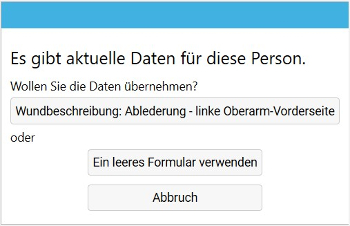
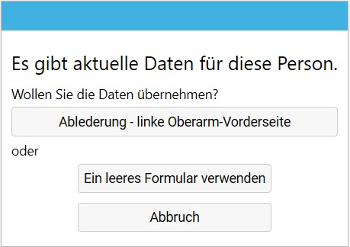
1.0.30

diff --git a/wunddoku/index.html b/wunddoku/index.html
@@ -329,41 +329,58 @@
 
 			
 
-<h2 id="bericht-mit-formular-zur-wundbeschreibung">Bericht mit Formular zur Wundbeschreibung</h2>
+<h2 id="wundbeschreibung-erstellen">Wundbeschreibung erstellen</h2>
 
-<ol>
-<li>Einen neuen <a href="https://transdok.github.io/durchfuehrung/#pflegeberichte">Pflegebericht</a> erstellen.</li>
-<li>Auf die Schaltfläche <code>Formular hinzufügen</code> und dann <code>Wundbeschreibung</code> klicken.</li>
-</ol>
+<p>Der einfachste Weg für das Beschreiben einer Wunde mit einem Formular (und mit Foto), ist die Erstellung eines <a href="https://transdok.github.io/durchfuehrung/#pflegeberichte">Pflegeberichts</a>. Dazu im Programmbereich <code>Pflege</code> beim Menüpunkt <code>Aufträge</code> die betreffende Person wählen und die Schaltfläche <code>Bericht schreiben</code> klicken. Im sich öffnenden Dialogfenster, kann unten die Schaltfläche <code>Formular hinzufügen</code> und dann <code>Wundbeschreibungen</code> gewählt werden.</p>
 
-<p><img src="https://transdok.github.io/images/bericht_wunde.gif" alt="Bericht Wundbeschreibung Screenshot" /></p>
+<p>Sehen Sie in <a href="https://player.vimeo.com/video/399496914">dieser Videoanleitung</a> wie das Formular ausgefüllt, sowie ein Bild eingelesen und vermessen wird.</p>
 
-<div class="admonition note">
-<p class="admonition-title">Pflegediagnosen-Zuordnung</p>
-<p>Wir empfehlen vor dem Erstellen der ersten Beschreibung für eine Wunde das Anlegen einer Pflegediagnose. Diese kann im Formular-Feld <code>Pflegedianose</code> zugeordnet werden. Oder das Formular wird zusammen mit der Pflegediagnose ausgefüllt (siehe <a href="https://transdok.github.io/wunddoku/#pflegediagnose-mit-wundbeschreibung">Pflegediagnose mit Wundbeschreibung</a>).</p>
-</div>
+<h2 id="wundbeschreibung-aktualisieren">Wundbeschreibung aktualisieren</h2>
 
-<p>Wurde für eine Wunde bereits einmal ein Formular ausgefüllt, öffnet sich automatisch ein Fenster zum Übernehmen der letzten Werte. Dazu auf den entsprechenden Titel der Wundbeschreibung klicken:</p>
+<p>Bei Wunden ist es wichtig, dass deren Veränderungen beschrieben werden. Auch hier ist der einfachste Weg die Erstellung eines <a href="https://transdok.github.io/durchfuehrung/#pflegeberichte">Pflegeberichts</a>. Nach dem Klicken von <code>Bericht schreiben</code>, danach <code>Formular hinzufügen</code> und dann <code>Wundbeschreibungen</code> erscheint bei Personen mit einer bereits erfassten Wundbeschreibung folgendes Dialogfenster:</p>
 
 <p><img src="https://transdok.github.io/images/bericht_wunde_aktuelle_daten.jpg" alt="Aktuelle Daten Screenshot" /></p>
 
-<hr />
+<p>Hier ist es wichtig, <strong>nur dann</strong> die Schaltfläche <strong><code>Ein leeres Formular verwenden</code></strong> zu wählen, <strong>wenn es sich um eine neue Wunde handelt</strong>. Für die Übersicht im Verlauf einer Wunde sollte <strong>für alle Aktualisierungen</strong> von Wundbeschreibungen der <strong>Titel der bereits erfassten Wunde</strong> gewählt werden.</p>
 
-<h2 id="pflegediagnose-mit-wundbeschreibung">Pflegediagnose mit Wundbeschreibung</h2>
-
-<p><a href="https://player.vimeo.com/video/372722008">Videoanleitung</a></p>
-
-<ol>
-<li>Einen neuen Pflegeplan mit dem Standard &lsquo;<strong># Gewebeintegrität, beeinträchtigt</strong>&rsquo;, &lsquo;<strong># Wunde</strong>&rsquo; oder &lsquo;<strong># Hautschädigung</strong>&rsquo;  erstellen.</li>
-<li>Auf die Schaltfläche <code>Wundbeschreibung</code> klicken.</li>
-</ol>
-
-<p><img src="https://transdok.github.io/images/planen_wunde.gif" alt="Pflegediagose Wundbeschreibung Screenshot" /></p>
+<p>Im oben dargestellten Beispiel also auf die Schaltfläche <code>Ablederung - linke Oberarm-Vorderseite</code> klicken. Das Formular zeigt eine Kopie der Inhalte wie sie zuletzt bei dieser Wunde erfasst wurden. Das hat den Vorteil, dass nur geändert und nicht das Formular neu ausgefüllt werden muss. Das zuletzt erfasste Bild wird nicht angezeigt, weil bei einer Veränderung der Wunde auch ein neues Bild eingelesen und ggf. vermessen werden sollte.</p>
 
 <div class="admonition note">
-<p class="admonition-title">Regelmäßige Wundbeoabachtungen</p>
-<p>Nach dem Erstellen einer Pflegediagnose mit Wundbeschreibung werden die laufenden Wundbeoabachtungen als Pflegebericht erstellt (siehe <a href="https://transdok.github.io/wunddoku/#bericht-mit-formular-zur-wundbeschreibung">Bericht mit Formular zur Wundbeschreibung</a>).</p>
+<p class="admonition-title">Keine Veränderung</p>
+<p>Das Formular für die Wundbeschreibung sollte nur dann verwendet werden, wenn sich die Wunde und damit der Inhalt verändert hat. Ansonsten ist ein <strong>Durchführungsnachweis</strong> für den <em>Verbandswechsel</em> (oder auch eine <em>Hautkontrolle</em>, &hellip;) als Beleg <strong>ausreichend</strong>. Ggf. könnte beim Durchführungsnachweis die Bemerkung <em>unveränderter Wundzustand</em> angefügt werden.</p>
 </div>
+
+<h2 id="wundbeschreibung-als-pflegeprozess">Wundbeschreibung als Pflegeprozess</h2>
+
+<p>Es gibt Hautveränderungen, allergische Reaktionen, chirurgische Wunden, usw., die medizinisch behandelt werden und keine Aufnahme in den Pflegeprozess erfordern.
+Wenn die Wundbehandlung jedoch im Sinne einer inderdisziplären Zusammenarbeit erfolgt, ist zu emfpehlen, dass pflegeprozessorientiert gearbeitet wird. Das ist insbesondere dann sinnvoll, wenn es pflegerische Einflussfaktoren gibt, die es zu berücksichtigen gilt (Inkontinenz, Ernährungszustand, Druck- und Scherkräfte bei einem Dekubitus, usw.).
+Im Pflegeprozess wird dann eine Pflegediagnose sowie ein Ziel aus Pflegesicht formuliert und es werden Interventionen geplant, die über die Wundbehandlung hinaus gehen können. Z.B. betreffend Ernährung, Lagerung (mit enstsprechenden Hilfsmitteln), Schulung von Betreuungspersonen, usw. Der Pflegeprozess sieht regelmäßige Evaluierungen vor, ein Anpassen der Interventionen und ein definiertes Ende bei vollständiger Abheilung der Wunde.</p>
+
+<p>Sehen Sie in <a href="https://player.vimeo.com/video/403652221">dieser Videoanleitung</a> wie die Wundbeschreibung in den Pflegeprozess eingebunden wird.</p>
+
+<h2 id="ergänzungen">Ergänzungen</h2>
+
+<p>Hier sind einige Dateils zur Arbeit mit Wundbeschreibungen vermerkt:</p>
+
+<h3 id="mehrere-wunden">mehrere Wunden</h3>
+
+<p>Bestimmte Wunden können an mehreren Stellen auftreten (z.B. Ulcus Cruris). Dafür gibt es beim Formular für Wundbeschreibungen oben rechts die Schaltfläche <code>weitere Wunde</code>. Durch Klicken öffnet ein weiteres leer Formular für die Beschreibung der zusätzlichen Wundstelle. Die zusammengehörenden Wunden werden oben im Formular wie Register angezeigt. Durch Anklicken kann die Formularanzeige zwischen den Wundstellen gewechselt werden.</p>
+
+<p><img src="https://transdok.github.io/images/bericht_wunde_mehrere.jpg" alt="mehrere Wunden" /></p>
+
+<h3 id="verbindung-mit-pflegediagnose">Verbindung mit Pflegediagnose</h3>
+
+<p>Bei <a href="#wundbeschreibung-als-pflegeprozess">Wundbeschreibung als Pflegeprozess</a> ist das Vorgehen beschrieben, wie im Rahmen der Erstellung einer Pflegediagnose ein Wundbeschreibungsformular eingefügt wird. Eine solche Verbindung kann auch nachträglich geschaffen werden. Dafür muss zuerst die Pflegediagnose erstellt werden. Dann kann über das <code>Bericht schreiben</code> das Wundbeschreibungsformular verwendet werden (<a href="#wundbeschreibung-erstellen">wie hier beschrieben</a>). Oben im Feld <code>Pflegeplan</code> kann die Zuordnung zur Pflegediagnose erfolgen.</p>
+
+<p><img src="https://transdok.github.io/images/bericht_wunde_pflegediagnose.jpg" alt="mehrere Wunden" /></p>
+
+<p>Eine Pflegediagnose kann nur einem Formular zugeordnet werden. Dieses Formular kann wie oben beschrieben mehrere Wunden zusammenfassen. Sollte es sich um unterschiedliche Wunden handeln, kann die Zuordnung leer bleiben (bei rein medizinischer Behandlung) oder es müssten mehrere Pflegediganosen erstellt werden.</p>
+
+<h3 id="wundbeschreibung-bei-der-pflegediagnose-aktualisieren">Wundbeschreibung bei der Pflegediagnose aktualisieren</h3>
+
+<p>Bei <a href="#wundbeschreibung-aktualisieren">Wundbeschreibung aktualisieren</a> ist das Vorgehen über das <code>Bericht schreiben</code> genannt. Ist das Formular mit einer Pflegediagnose verbunden, kann auch bei <code>Pflegeplan</code> und Klicken von <code>ändern</code> beim entsprechenden Plan das Formular erneut ausgefüllt werden. Dazu rechts im Fenster auf <code>Wundbeschreibungen</code> klicken.</p>
+
+<p><img src="https://transdok.github.io/images/bericht_sf_wundbeschreibungen.jpg" alt="mehrere Wunden" /></p>
 
 
 

diff --git a/meine_klientinnen/index.html b/meine_klientinnen/index.html
@@ -335,7 +335,7 @@
 
 <p><img src="https://transdok.github.io/images/verwaltung_gruppen.jpg" alt="Gruppen" /></p>
 
-<p>Es müssen sowohl die KlientInnen, als aich die MitarbeiterInnen den Gruppen zugeordnet werden. Es können auch mehrere Gruppen verwendet werden, die beliebig benannt werden können.</p>
+<p>Es müssen sowohl die KlientInnen, als auch die MitarbeiterInnen den Gruppen zugeordnet werden. Es können auch mehrere Gruppen verwendet werden, die beliebig benannt werden können.</p>
 
 <p><img src="https://transdok.github.io/images/verwaltung_gruppen_2.jpg" alt="Gruppen2" /></p>
 
@@ -343,7 +343,7 @@
 
 <p>Im Programmbereich <code>Pflege</code> Menüpunkt <code>Meine Klienten</code> befindet sich eine Übersicht über alle geplanten <strong>Hausbesuche</strong> der nächsten Tage. Durch Klicken auf den entsprechenden Tag können Sie markieren, welche Aufgaben Sie übernehmen werden.</p>
 
-<p>Das System zeigt dabei KlientInnen, die sie in letzter Zeit betreut haben,  zuerst an.</p>
+<p>Das System zeigt dabei KlientInnen, die Sie in letzter Zeit betreut haben, zuerst an.</p>
 
 <p><img src="https://transdok.github.io/images/meine_klienten.gif" alt="meine_klienten" /></p>
 
@@ -351,9 +351,9 @@
 
 <p><img src="https://transdok.github.io/images/meine_klienten_auswahl.jpg" alt="meine_klienten" /></p>
 
-<h2 id="andere-einteilen">Andere Einteilen</h2>
+<h2 id="andere-einteilen">Andere einteilen</h2>
 
-<p>Wenn erforderlich können KlientInnen auch anderen MitarbeiterInnen zugeteilen werden. Gehen Sie dazu in dene Programmbereich <code>Arbeitsteilung</code> Menüpunkt <code>Zuordnung</code>.</p>
+<p>Wenn erforderlich, können KlientInnen auch anderen MitarbeiterInnen zugeteilen werden. Gehen Sie dazu in den Programmbereich <code>Arbeitsteilung</code> Menüpunkt <code>Zuordnung</code>.</p>
 
 <p><img src="https://transdok.github.io/images/zuordnen.jpg" alt="zuordnen.jpg" /></p>
 

diff --git a/index.html b/index.html
@@ -338,7 +338,8 @@
 <h3 id="kürzliche-geänderte-inhalte">kürzliche geänderte Inhalte</h3>
 
 <ul>
-<li>Die Funktion <strong><a href="meine_klientinnen/">Meine KlientInnen</a></strong> ist bei manchen Vereinen bereit freigeschaltet. Wer sie testen will, kann dies im Demo-Mandant tun.</li>
+<li>Die Funktion <strong><a href="meine_klientinnen/">Meine KlientInnen</a></strong> ist bei manchen Vereinen bereits freigeschaltet. Wer sie testen will, kann dies im Demo-Mandant tun.</li>
+<li>Die Anleitung zur <strong><a href="wunddoku/">Wunddokumentation</a></strong> wurde überarbeitet.</li>
 </ul>
 
 <h3 id="links">Links</h3>
